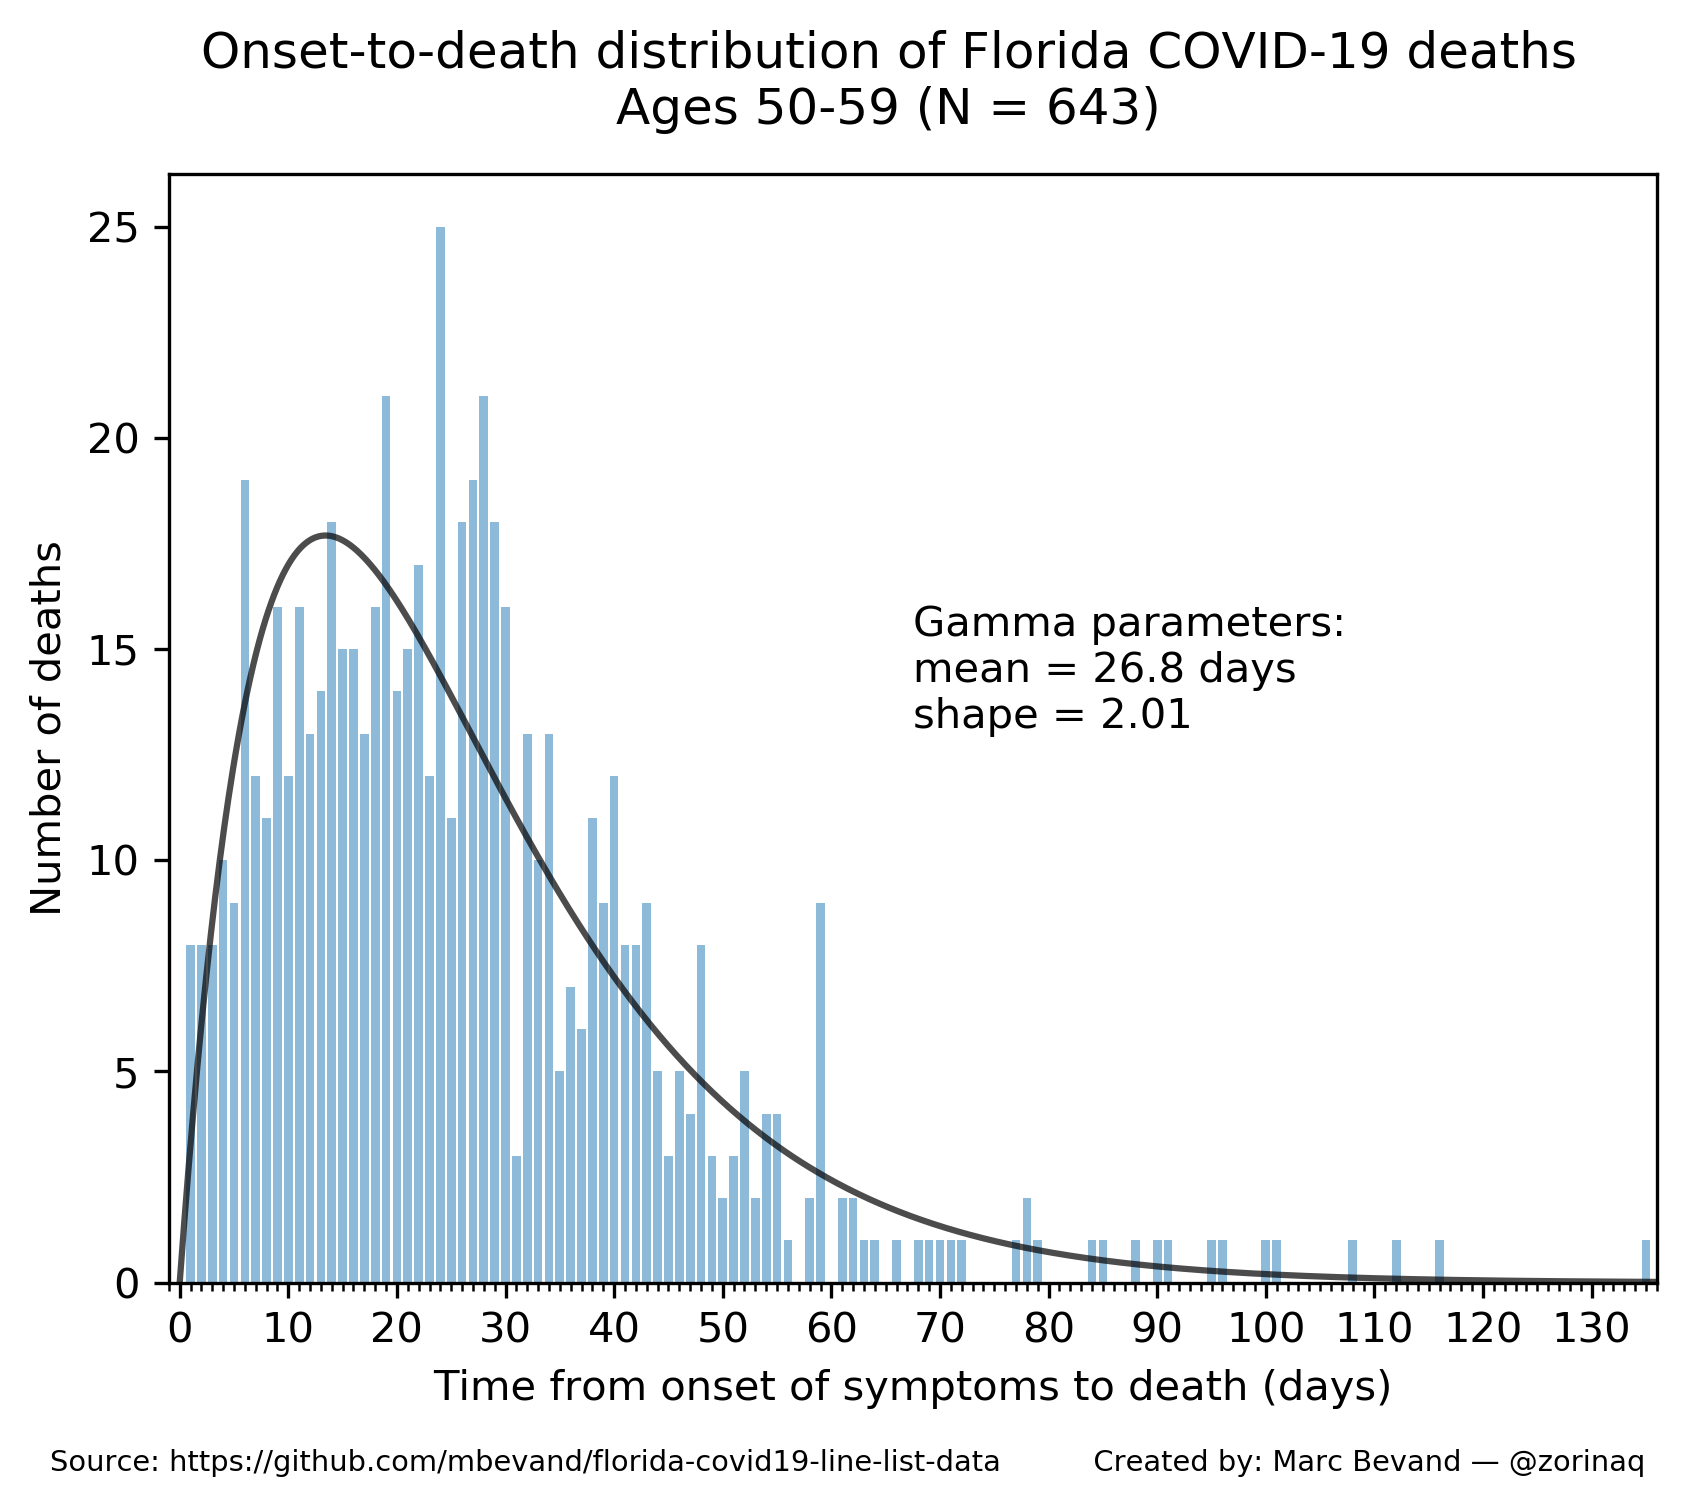
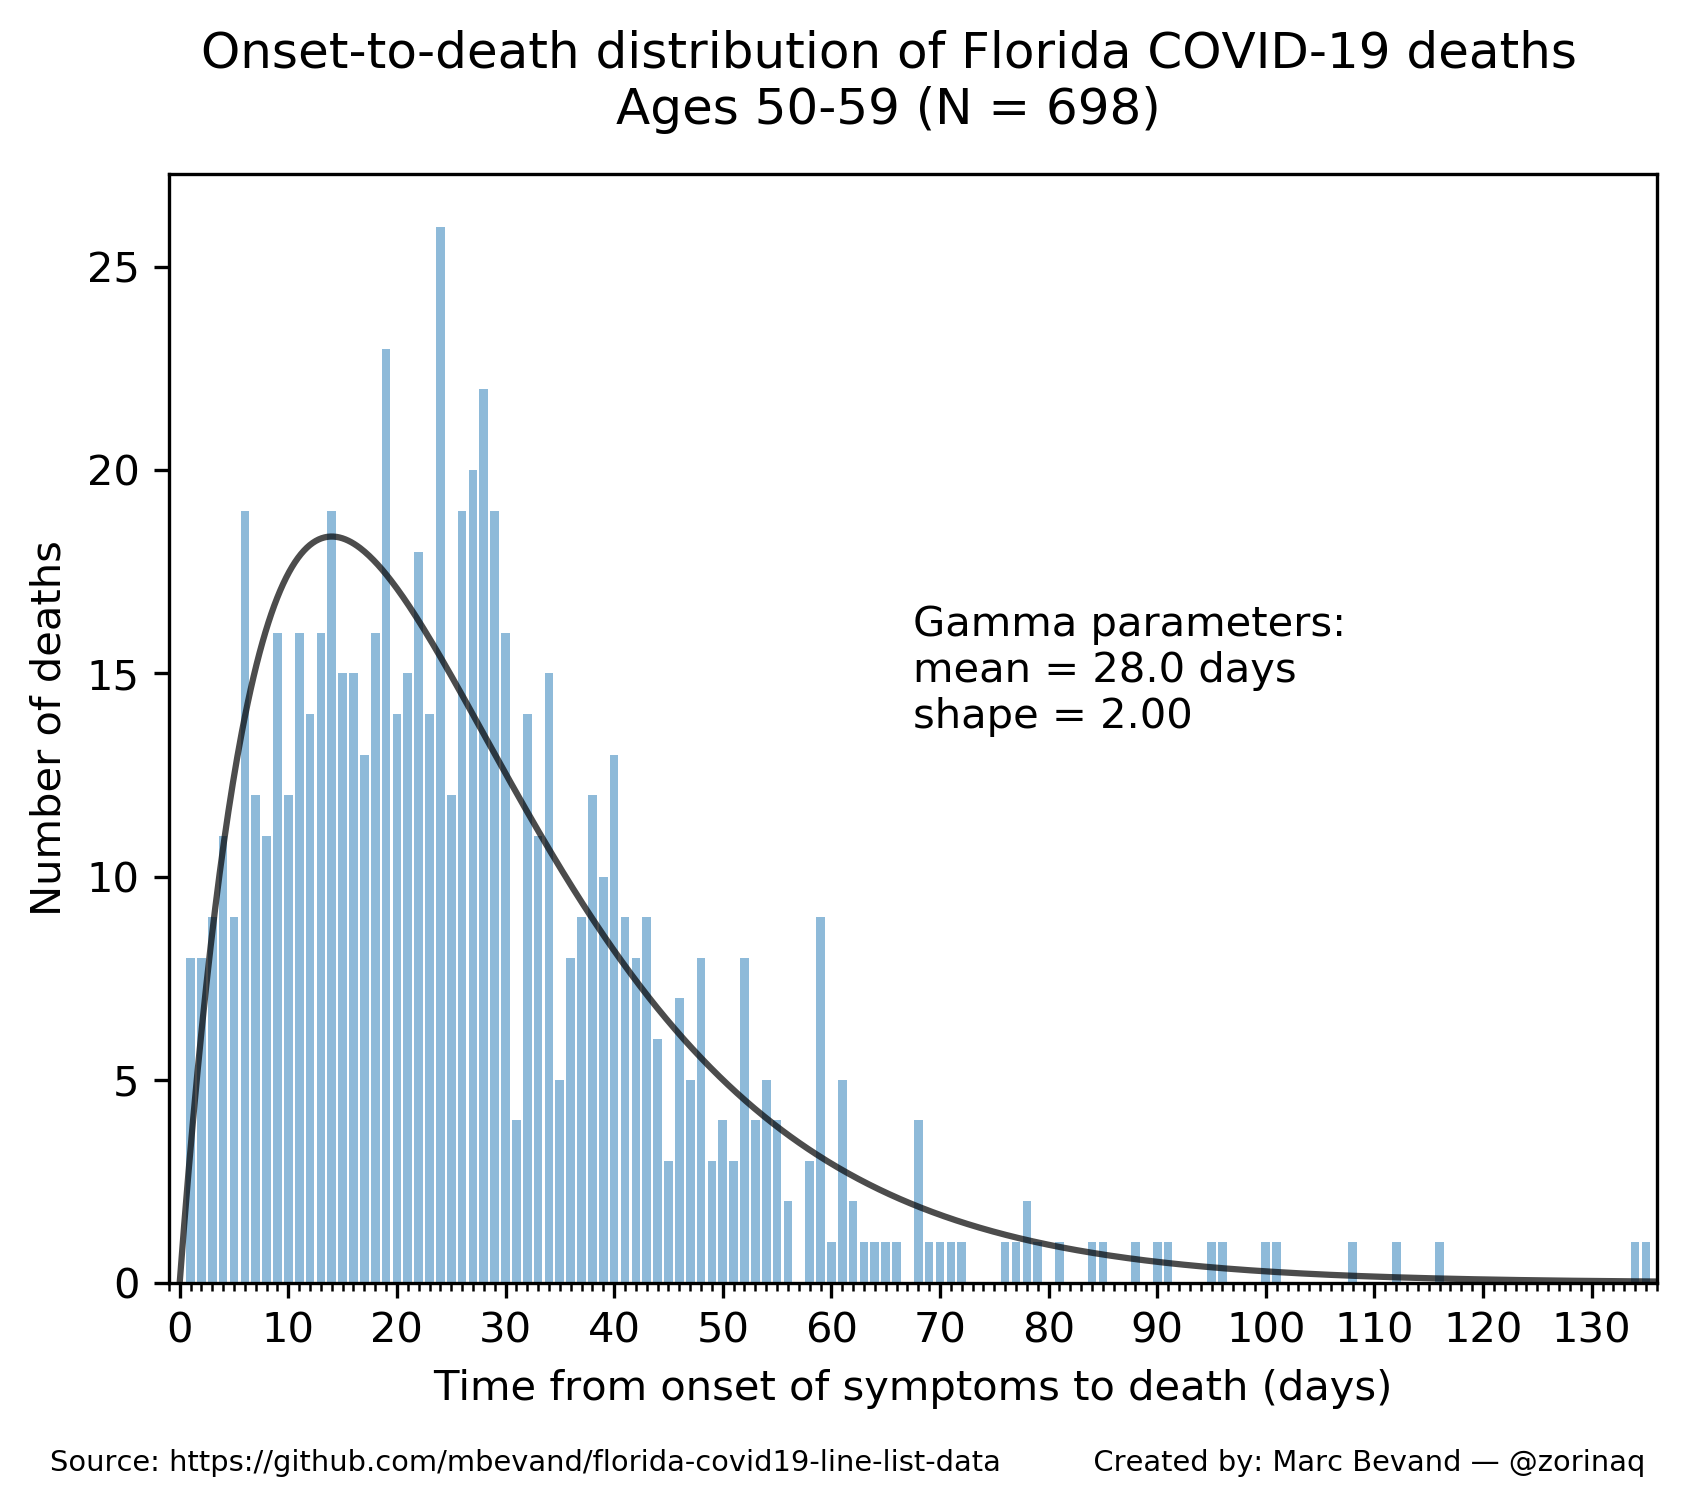
new gamma distribution

diff --git a/age_stratified_cfr.py b/age_stratified_cfr.py
@@ -219,7 +219,7 @@ def main():
         data[date][b].deaths += 1 if died else 0
         data[date][b].cases += 1
     # Parameters of the Gamma distribution of onset-to-death, calculated by gamma.py
-    mean, shape = 24.0, 2.02
+    mean, shape = 25.1, 1.97
     calc_cfr(data, mean, shape)
     #print_stats(data)
     gen_chart(data, mean, shape)

diff --git a/forecast_deaths.py b/forecast_deaths.py
@@ -24,7 +24,7 @@ csv_deaths_occurred = 'data_deaths/deaths_by_date_of_death.csv'
 deaths_occurred_ignore_days = 2
 
 # Mean time (in days) from onset of symptoms to death, calculated by gamma.py
-o2d = 24.0
+o2d = 25.1
 
 # Number of days to calculate the simple moving average of the chart curves
 avg_days = 7

diff --git a/README.md b/README.md
@@ -104,13 +104,13 @@ important that we feed it CFR estimates, not IFR estimates. Infection Fatality
 Ratios take into account *undetected* cases and thus would not be consistent
 with line list data.
 
-Then the script assumes death occurs on average 24.0 days after infection,
+Then the script assumes death occurs on average 25.1 days after infection,
 which is the mean onset-to-death time calculated by `gamma.py`.
 
 Finally, it charts the forecast (`forecast_deaths.png`). The curves are all
 smoothed with a 7-day simple moving average.
 
-The end result is a simple tool that can not only predict deaths up to ~24.0
+The end result is a simple tool that can not only predict deaths up to ~25.1
 days ahead of time, but can also estimate *past* deaths accurately: notice how
 the colored curves in the generated chart follow closely the observed deaths.
 
@@ -268,70 +268,87 @@ Parsing data_fdoh/2020-08-29-08-08-09.csv
 Parsing data_fdoh/2020-08-30-09-58-03.csv
 Parsing data_fdoh/2020-08-31-07-43-19.csv
 Parsing data_fdoh/2020-09-01-10-43-29.csv
+Parsing data_fdoh/2020-09-02-08-04-15.csv
+Parsing data_fdoh/2020-09-03-08-08-03.csv
+Parsing data_fdoh/2020-09-04-09-08-26.csv
+Parsing data_fdoh/2020-09-05-08-02-30.csv
+Parsing data_fdoh/2020-09-06-08-48-47.csv
+Parsing data_fdoh/2020-09-07-10-23-19.csv
+Parsing data_fdoh/2020-09-08-07-51-31.csv
+Parsing data_fdoh/2020-09-09-08-02-46.csv
 
 Ages 0-29:
-Number of deaths: 55
+Number of deaths: 59
 Gamma distribution params:
-mean = 18.5
-shape = 1.63
+mean = 19.8
+shape = 1.51
+Median: 14.0
 
 Ages 30-39:
-Number of deaths: 101
+Number of deaths: 107
 Gamma distribution params:
-mean = 21.0
-shape = 1.43
+mean = 22.5
+shape = 1.35
+Median: 19.0
 
 Ages 40-49:
-Number of deaths: 258
+Number of deaths: 275
 Gamma distribution params:
-mean = 27.8
+mean = 28.6
 shape = 1.99
+Median: 23.0
 
 Ages 50-59:
-Number of deaths: 643
+Number of deaths: 698
 Gamma distribution params:
-mean = 26.8
-shape = 2.01
+mean = 28.0
+shape = 2.00
+Median: 24.5
 
 Ages 60-69:
-Number of deaths: 1439
+Number of deaths: 1562
 Gamma distribution params:
-mean = 25.8
-shape = 2.23
+mean = 27.1
+shape = 2.17
+Median: 24.0
 
 Ages 70-79:
-Number of deaths: 2293
+Number of deaths: 2508
 Gamma distribution params:
-mean = 24.3
-shape = 2.18
+mean = 25.3
+shape = 2.10
+Median: 22.0
 
 Ages 80-89:
-Number of deaths: 2590
+Number of deaths: 2814
 Gamma distribution params:
-mean = 23.2
-shape = 1.99
+mean = 24.1
+shape = 1.93
+Median: 19.0
 
 Ages 90+:
-Number of deaths: 1384
+Number of deaths: 1549
 Gamma distribution params:
-mean = 21.3
-shape = 1.86
+mean = 22.8
+shape = 1.80
+Median: 19.0
 
 All ages:
-Number of deaths: 8763
+Number of deaths: 9572
 Gamma distribution params:
-mean = 24.0
-shape = 2.02
+mean = 25.1
+shape = 1.97
+Median: 21.0
 ```
 
-The overall (all ages) mean of 24.0 days is comparable to other published estimates, however our
-distribution is wider (ie. smaller shape parameter of 2.02) because many deaths
+The overall (all ages) mean of 25.1 days is comparable to other published estimates, however our
+distribution is wider (ie. smaller shape parameter of 1.97) because many deaths
 occur in the long tail:
 * mean 17.8 days, shape 4.94 = 0.45<sup>-2</sup>, based on sample of 24 deaths: [Estimates of the severity of coronavirus disease 2019: a model-based analysis][verity]
 * mean 15.1 days, shape 5.1, based on sample of 3 deaths: [Estimating case fatality ratio of COVID-19 from observed cases outside China][althaus]
 
 We believe our distribution parameters are more accurate because
-they are based on a much larger sample of 8763 deaths. The long tail
+they are based on a much larger sample of 9572 deaths. The long tail
 may be the result of improved treatments that can maintain patients
 alive for a longer time.
 
